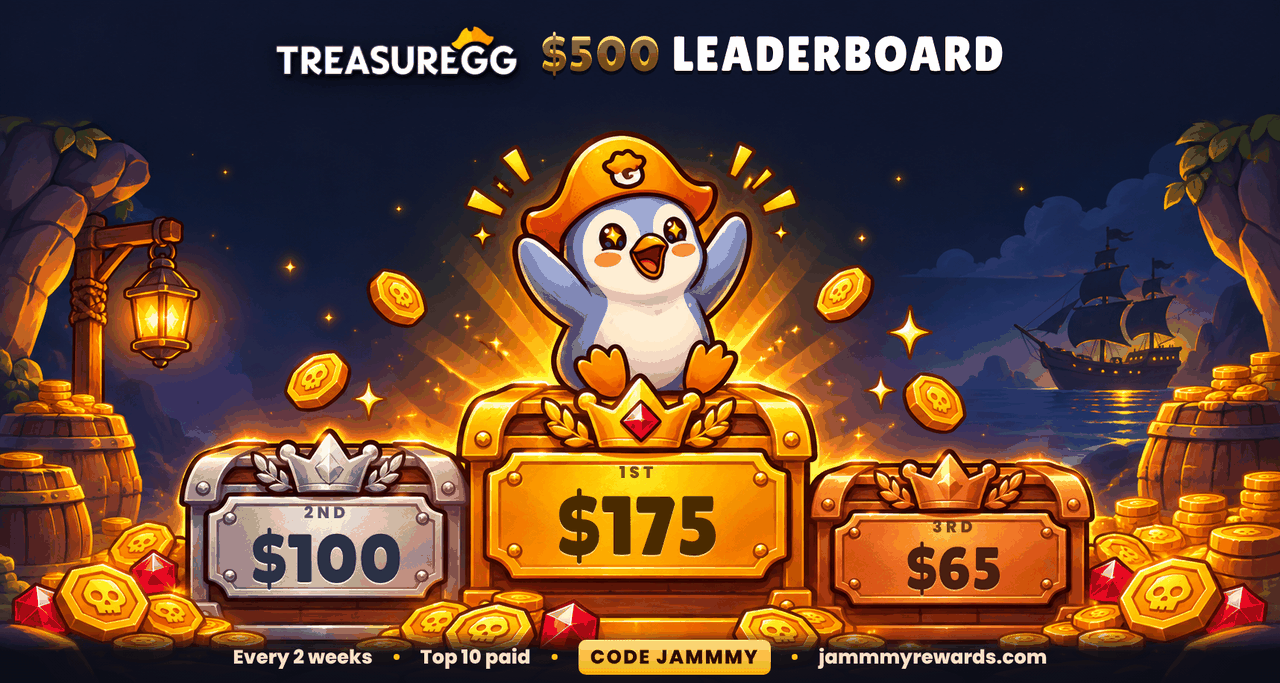
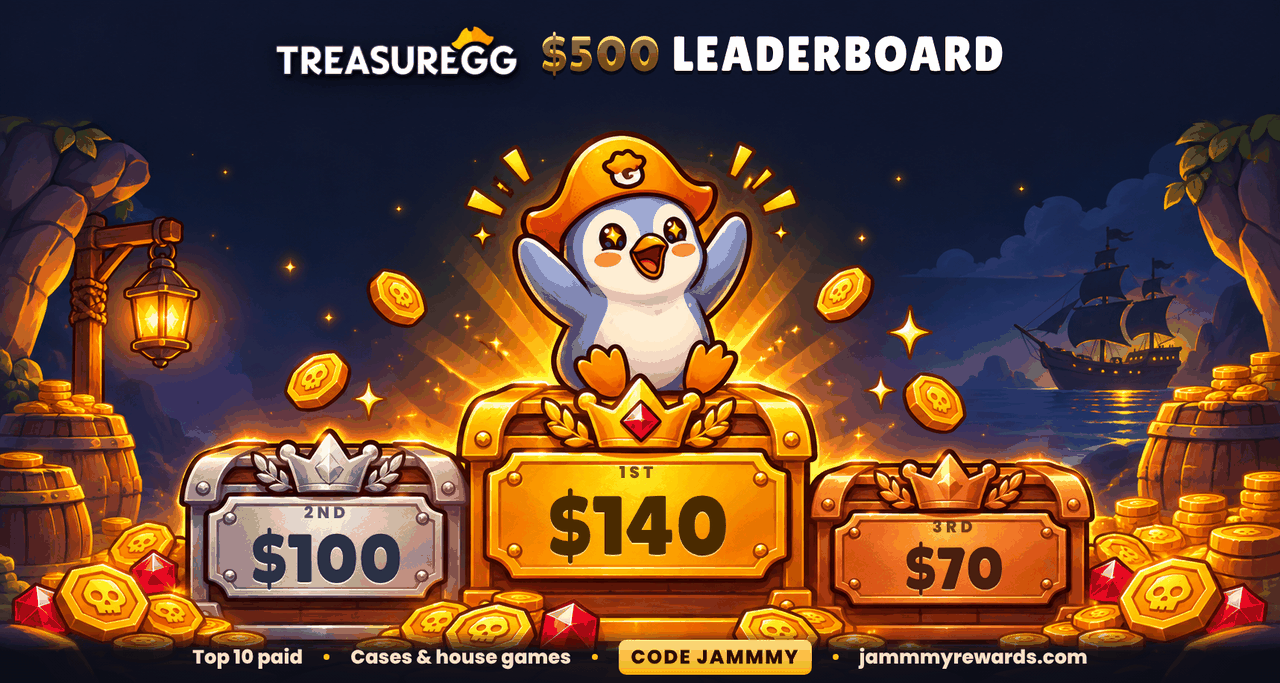
Add files via upload

Changed region(s): [[0.1562, 0.9224, 0.8438, 1.0], [0.4062, 0.7072, 0.5938, 0.8302], [0.7188, 0.7994, 0.7812, 0.8917]]

diff --git a/index.html b/index.html
@@ -7219,7 +7219,7 @@ img.dbl{flex:none;width:auto}
             <p class="lbx-how-s">For the Community Vault, 1 point counts as $1 wagered.</p>
           </div>
           <div class="lbx-how-b" data-for="treasuregg" hidden>
-            <p>TreasureGG ranks this leaderboard by <b>amount wagered</b> by players on code <b>JAMMMY</b>. Each race runs two weeks, from 00:00 UTC to 00:00 UTC.</p>
+            <p>TreasureGG ranks this leaderboard by <b>points</b> earned on the games the race counts (cases, house games and more), for players on code <b>JAMMMY</b>. The dates and prize split come straight from TreasureGG.</p>
             <p>The top 10 split <b>$500</b>. Winners claim their prize by opening a ticket in our Discord.</p>
             <p class="lbx-how-s">TreasureGG's own Daily Case Race and Weekly Race (reset at 17:55 UTC) are separate. See them on the TreasureGG partner page.</p>
           </div>
@@ -7518,7 +7518,7 @@ img.dbl{flex:none;width:auto}
           <div class="tgx-lb-main">
             <span class="tgx-lb-tag">Bi-weekly leaderboard</span>
             <div class="tgx-lb-pool"><img src="tgg-coin.webp" alt="" aria-hidden="true"><b class="tgx-gold">$500</b></div>
-            <p class="tgx-lb-sub">Exclusive to Jammy's players: the top 10 TreasureGG wagerers on code <b style="color:#ffd54a">JAMMMY</b> split the pool every two weeks. Races start and end at <b style="color:#fff">00:00 UTC</b>.</p>
+            <p class="tgx-lb-sub">Exclusive to Jammy's players: the top 10 TreasureGG wagerers on code <b style="color:#ffd54a">JAMMMY</b> split the pool every two weeks. Dates and prizes are set by TreasureGG and update here live.</p>
             <div class="tgx-cd-w" id="tgxLbWord">Starts in</div>
             <div class="tgx-cd" id="tgxLbCd"><div><b data-u="d">--</b><small>Days</small></div><div><b data-u="h">--</b><small>Hrs</small></div><div><b data-u="m">--</b><small>Min</small></div><div><b data-u="s">--</b><small>Sec</small></div></div>
             <div class="tgx-dates" id="tgxLbDates"></div>
@@ -9211,7 +9211,7 @@ function lbcd2(){
   if(datesEl){
     var opts = {month:'short', day:'numeric', year:'numeric', timeZone:'UTC'};
     /* Only write when the text changes (no flicker). */
-    var dt = period.start.toLocaleDateString('en-US',opts)+' \u2192 '+period.end.toLocaleDateString('en-US',opts)+' (00:00 UTC)';
+    var dt = period.start.toLocaleDateString('en-US',opts)+' \u2192 '+period.end.toLocaleDateString('en-US',opts)+' ('+(CURRENT_LB_CASINO==='treasuregg'&&TGG.board?period.end.toISOString().slice(11,16):'00:00')+' UTC)';
     if(datesEl.textContent !== dt) datesEl.textContent = dt;
   }
   var updEl = document.getElementById('lbUpdatedTime');
@@ -17848,10 +17848,13 @@ function JammmyMascot(root, base){
    TGG.first    : start of Jammy's first $500 race. Races run 14 days, 00:00 UTC to 00:00 UTC.
    TGG.apiReady : set to true once the worker has the TreasureGG API (route ?casino=treasuregg).
    TreasureGG's own Daily Case Race resets every day at 17:55 UTC; its Weekly Race ends Saturdays at 17:55 UTC. */
-var TGG = { url: 'https://treasure.gg/', first: Date.UTC(2026, 10, 30, 0, 0, 0), len: 14 * 86400000, apiReady: false,
-  prizes: {1:175, 2:100, 3:65, 4:45, 5:35, 6:25, 7:20, 8:15, 9:10, 10:10} };
+var TGG = { streamer: 'CODEJAMMMY', api: 'https://api.treasure.gg/leaderboard/streamers/', board: null, prevBoard: null, url: 'https://treasure.gg/', first: Date.UTC(2026, 10, 30, 0, 0, 0), len: 14 * 86400000, apiReady: false,
+  prizes: {1:140, 2:100, 3:70, 4:50, 5:40, 6:30, 7:25, 8:20, 9:15, 10:10} };
 function tggPeriods(now){
   now = now || Date.now();
+  /* once Jammy's board exists on TreasureGG, its own dates win */
+  if(TGG.board){ var b = TGG.board, pb = TGG.prevBoard;
+    return { current: { start: new Date(b.startAt), end: new Date(b.endAt), upcoming: new Date(b.startAt) > now }, previous: pb ? { start: new Date(pb.startAt), end: new Date(pb.endedAt || pb.endAt) } : null }; }
   if(now < TGG.first) return { current: { start: new Date(TGG.first), end: new Date(TGG.first + TGG.len), upcoming: true }, previous: null };
   var k = Math.floor((now - TGG.first) / TGG.len), st = TGG.first + k * TGG.len;
   return { current: { start: new Date(st), end: new Date(st + TGG.len) }, previous: k ? { start: new Date(st - TGG.len), end: new Date(st) } : null };
@@ -17869,21 +17872,22 @@ function tggRaceEnd(kind, now){
   var pad = function(v){ return (v < 10 ? '0' : '') + v; };
 
   /* prize table on the partner page */
-  var pz = document.getElementById('tgxPz');
+  window.tggPaintPrizes = function(){ var pz = document.getElementById('tgxPz');
   if(pz){ var nm = {1:'🥇 1st', 2:'🥈 2nd', 3:'🥉 3rd'}, tot = 0, h = '<div class="h"><span>Place</span><span>Prize</span></div>';
     Object.keys(TGG.prizes).forEach(function(k){ tot += TGG.prizes[k]; h += '<div><span>' + (nm[k] || k + 'th') + '</span><b>$' + TGG.prizes[k] + '</b></div>'; });
-    pz.innerHTML = h + '<div class="t"><span>Total</span><b>$' + tot + '</b></div>'; }
+    pz.innerHTML = h + '<div class="t"><span>Total</span><b>$' + tot + '</b></div>'; } };
+  tggPaintPrizes();
 
   /* countdowns on the partner page (only while it's open) */
   function tick(){
     var sec = document.getElementById('pt-sec-treasuregg'); if(!sec || !sec.offsetParent) return;
     var now = Date.now(), P = tggPeriods(now).current, up = now < P.start;
     var s = Math.max(0, Math.floor(((up ? P.start : P.end) - now) / 1000));
-    var w = document.getElementById('tgxLbWord'); if(w) w.textContent = up ? 'First race starts in' : 'Race ends in';
+    var w = document.getElementById('tgxLbWord'); if(w) w.textContent = up ? (TGG.board ? 'Race starts in' : 'First race starts in') : 'Race ends in';
     var v = { d: String(Math.floor(s / 86400)), h: pad(Math.floor(s / 3600) % 24), m: pad(Math.floor(s / 60) % 60), s: pad(s % 60) };
     document.querySelectorAll('#tgxLbCd b[data-u]').forEach(function(b){ if(b.textContent !== v[b.dataset.u]) b.textContent = v[b.dataset.u]; });
     var dt = document.getElementById('tgxLbDates'), o = { month: 'short', day: 'numeric', timeZone: 'UTC' };
-    if(dt){ var t = P.start.toLocaleDateString('en-US', o) + ' → ' + P.end.toLocaleDateString('en-US', o) + ' · 00:00 UTC'; if(dt.textContent !== t) dt.textContent = t; }
+    if(dt){ var t = P.start.toLocaleDateString('en-US', o) + ' → ' + P.end.toLocaleDateString('en-US', o) + (TGG.board ? ' · ' + P.end.toISOString().slice(11,16) + ' UTC' : ' · 00:00 UTC'); if(dt.textContent !== t) dt.textContent = t; }
     document.querySelectorAll('[data-tgx-race]').forEach(function(cd){
       var r = Math.max(0, Math.floor((tggRaceEnd(cd.dataset.tgxRace, now) - now) / 1000));
       var x = { d: String(Math.floor(r / 86400)), h: pad(cd.dataset.tgxRace === 'daily' ? Math.floor(r / 3600) : Math.floor(r / 3600) % 24), m: pad(Math.floor(r / 60) % 60), s: pad(r % 60) };
@@ -17957,8 +17961,51 @@ function tggRaceEnd(kind, now){
     return _period();
   };
   var _load = window.loadLeaderboard;
+  /* ---- TreasureGG API (public, no key): GET /leaderboard/streamers/<username> ---- */
+  TGG.fetch = function(){
+    if(!TGG.streamer) return Promise.resolve(null);
+    if(TGG._p && Date.now() - TGG._t < 60000) return TGG._p;
+    TGG._t = Date.now();
+    TGG._p = fetch(TGG.api + encodeURIComponent(TGG.streamer), { cache: 'no-store' }).then(function(r){ return r.ok ? r.json() : null; }).then(function(d){
+      if(!d) return null;
+      var hist = (d.history && d.history.data) || [];
+      TGG.board = d.current || null;
+      TGG.prevBoard = hist.filter(function(b){ return b.status === 'ended'; })[0] || null;
+      if(!TGG.board && TGG.prevBoard) TGG.board = null;
+      var pz = (TGG.board || TGG.prevBoard || {}).prizes;
+      if(pz && pz.length){ var t = {}; pz.forEach(function(p){ t[p.position] = p.amount; }); TGG.prizes = t; LB_CASINO_PRIZES.treasuregg = t; if(typeof tggPaintPrizes === 'function') tggPaintPrizes(); }
+      return d;
+    }).catch(function(){ return null; });
+    return TGG._p;
+  };
+  function tggRows(b){ return ((b && b.players) || []).map(function(p){ return { rank: p.position, name: p.anon ? 'Anonymous' : p.username, wager: Number(p.wagered) || 0, points: p.points, prize: p.prize }; }); }
+  function tggPrizeMap(b){ var t = {}; ((b && b.prizes) || []).forEach(function(p){ t[p.position] = p.amount; }); return t; }
+  var _lbPT = window.lbPrizeTable;
+  if(_lbPT) window.lbPrizeTable = lbPrizeTable = function(c){
+    if(c === 'treasuregg' && TGG.streamer){ var b = LB_RACE === 'previous' ? TGG.prevBoard : TGG.board; if(b && b.prizes && b.prizes.length) return tggPrizeMap(b); }
+    return _lbPT(c);
+  };
+  TGG.fetch();
+
   window.loadLeaderboard = loadLeaderboard = async function(casino){
-    if(casino !== 'treasuregg' || TGG.apiReady) return _load(casino);
+    if(casino !== 'treasuregg') return _load(casino);
+    if(TGG.streamer){
+      var seq = ++lbRequestSeq; await TGG.fetch(); if(seq !== lbRequestSeq) return;
+      var prevB = LB_RACE === 'previous', b = prevB ? TGG.prevBoard : TGG.board;
+      if(b){
+        if(JOIN_PW) JOIN_PW.style.display = 'none';
+        var info = document.getElementById('lbxInfo'), podium = document.getElementById('lbxPodium');
+        if(info){ info.style.display = ''; info.classList.remove('lbx-off'); }
+        if(podium) podium.classList.remove('lbx-hide');
+        _realPeriodOverride = { start: new Date(b.startAt), end: new Date(b.endedAt || b.endAt) };
+        lbcd2();
+        if(typeof lbxSetNotice === 'function') lbxSetNotice({ startDate: b.startAt, endDate: b.endedAt || b.endAt });
+        if(typeof lbxSetState === 'function') lbxSetState();
+        var rows = tggRows(b); _lastLbWagers = rows;
+        renderLeaderboardRows(rows, null);
+        return;
+      }
+    }
     /* API not connected yet: countdown, dates and prizes from the fixed schedule, no standings */
     lbRequestSeq++;
     if(JOIN_PW) JOIN_PW.style.display = 'none';
